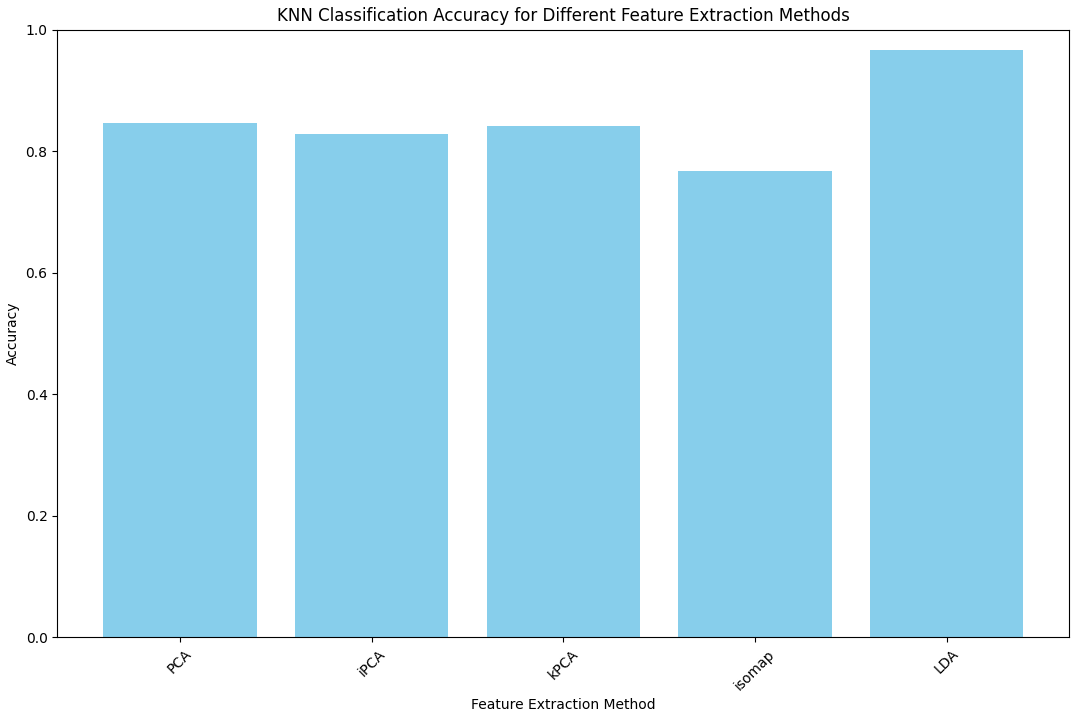
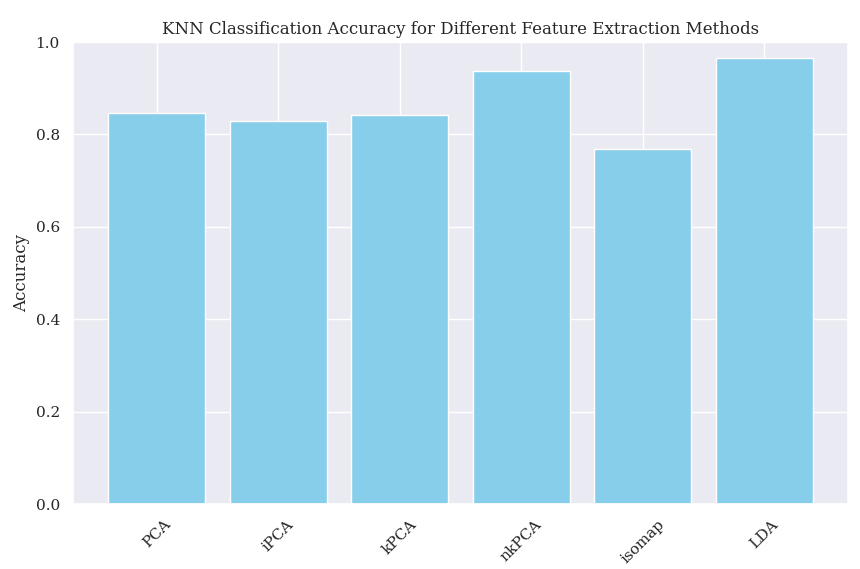
added method nystromPCA for feature extraction

diff --git a/project2/project2.py b/project2/project2.py
@@ -13,9 +13,11 @@ from sklearn.neighbors import KNeighborsClassifier
 from sklearn.metrics import accuracy_score
 import random
 import constants as C
-
+from nystrompca import NystromKPCA
 
 # _____ gets a multi-band image and returns it as uint8 image
+
+
 def UINT8(Data):
     shape = Data.shape
     for i in range(shape[2]):
@@ -162,6 +164,18 @@ class Processor:
         )
         return kpca_img
 
+    def NKPCA(self):
+        n_components = C.n_components
+        nkpca = NystromKPCA(n_components=n_components,
+                            m_subset=30, kernel=C.kernel_type)
+        nkpca_img = nkpca.fit_transform(self.flattened_img)
+        plot_reduced_img(reduced_data=nkpca_img,
+                         method="kpca", shape=self.shape)
+        scatter_plot(
+            reduced_image=nkpca_img, label=self.flattened_lbl, method="nystrom PCA"
+        )
+        return nkpca_img
+
     # _____ applying method of isomap for dimension reduction
     def ISOMAP(self):
         n_components = 25
@@ -216,14 +230,16 @@ class Processor:
             accuracy = {}
             self.ins_dim(calc_dim=False)
             reduced_img_pca = self.PCA()
-            reduced_img_ipca = self.IPCA()
             reduced_img_kpca = self.KPCA()
+            reduced_img_nkpca = self.NKPCA()
+            reduced_img_ipca = self.IPCA()
             reduced_img_iso = self.ISOMAP()
             reduced_img_lda = self.LDA()
 
             accuracy['PCA'] = self.KNN(reduced_image=reduced_img_pca)
             accuracy['iPCA'] = self.KNN(reduced_image=reduced_img_ipca)
             accuracy['kPCA'] = self.KNN(reduced_image=reduced_img_kpca)
+            accuracy['nkPCA'] = self.KNN(reduced_image=reduced_img_nkpca)
             accuracy['isomap'] = self.KNN(reduced_image=reduced_img_iso)
             accuracy['LDA'] = self.KNN(reduced_image=reduced_img_lda)
 

diff --git a/README.md b/README.md
@@ -95,6 +95,35 @@ This repository contains two distinct but related projects focused on hyperspect
 
    ![something went wrong!](images/pr2_scat_kpca.png)
 
+   **Nystrom Kernel PCA** :
+
+   Nystrom Kernel Principal Component Analysis (NystromKPCA) is a variant of Kernel PCA designed to handle large datasets efficiently. It approximates the kernel matrix using a subset of the data, making it computationally feasible for large-scale applications.this method works in the following steps:
+
+   
+   - **Choose a Kernel**:Select a kernel function (e.g., Gaussian, polynomial) to map the original data into a higher-dimensional space.
+
+   - **Select a Subset**:Randomly select a subset of the data points to approximate the kernel matrix. This subset should be representative of the entire dataset.
+   
+   - **Compute Kernel Matrix for Subset**:Calculate the kernel matrix for the selected subset of data points. This smaller kernel matrix approximates the relationships within the subset.
+
+   - **Compute Cross-Kernel Matrix**:Calculate the cross-kernel matrix between the subset and the entire dataset. This matrix captures the relationships between the subset and the rest of the data.
+
+   - **Approximate Full Kernel Matrix**:Use the subset kernel matrix and the cross-kernel matrix to approximate the full kernel matrix for the entire dataset.
+
+   - **Eigenvalue and Eigenvector Computation**:Perform eigenvalue decomposition on the approximate kernel matrix to find the principal components in the higher-dimensional space.
+
+   - **Select Principal Components**:Choose the top eigenvectors based on their eigenvalues, representing the directions of maximum variance in the high-dimensional space.
+
+   - **Transform Data**:Project the original data onto the selected principal components using the kernel function to obtain the reduced dataset.
+
+   here are features extracted from nkpca method :
+
+   ![something went wrong!](images/pr2_nkpca.png)
+
+   the scatter-plot for four classes in first 3 feature extracted from kpca method is shown bellow : 
+
+   ![something went wrong!](images/pr2_scat_nkpca.png)
+
    **ISOMAP** : 
 
    Isomap (Isometric Mapping) is a nonlinear dimensionality reduction technique that aims to preserve the geodesic distances between data points, effectively capturing the underlying manifold structure.
@@ -149,7 +178,8 @@ This repository contains two distinct but related projects focused on hyperspect
    | PCA                        | 85%      |
    | IPCA                       | 83%      |
    | KPCA                       | 87%      |
-   | LDA                        | 90%      |
+   | NKPCA                      | 92%      |
+   | LDA                        | 96%      |
    | Isomap                     | 84%      |
 
 
